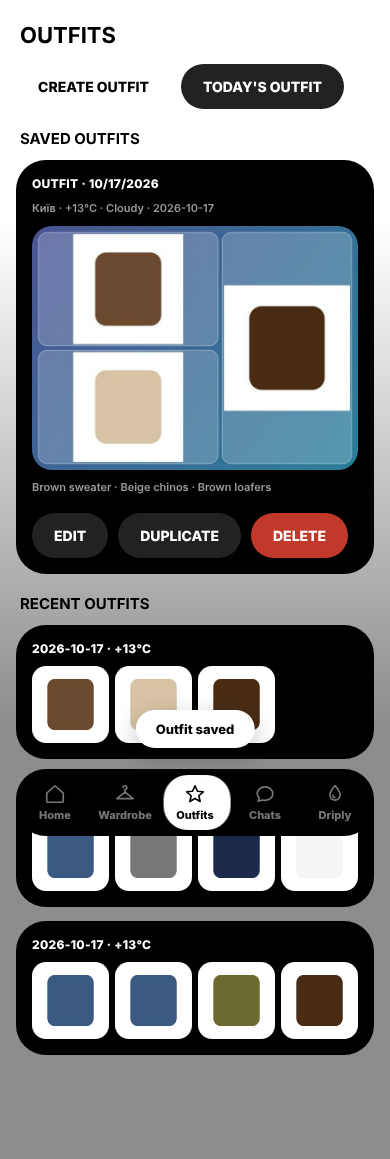
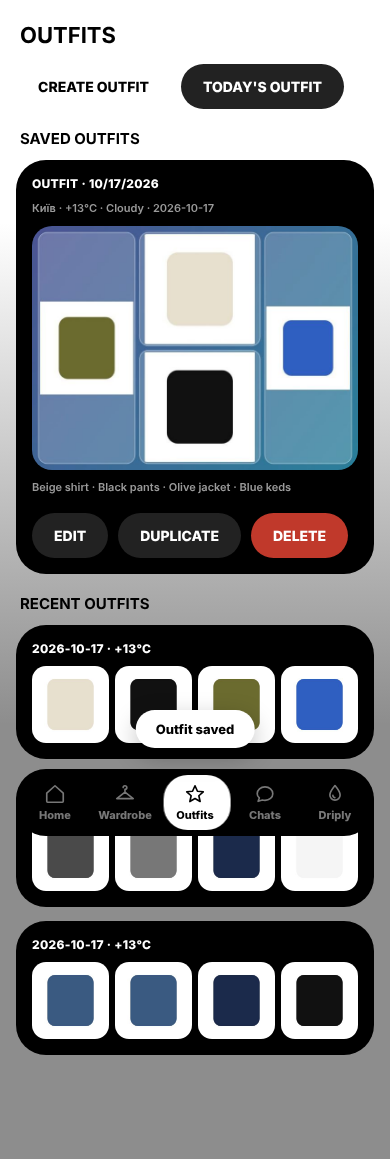
Widget: tap opens app and generates a new look
Claude-Session: https://claude.ai/code/session_01S2HiD2gXmzHQ91dDofdPVs

diff --git a/sw.js b/sw.js
@@ -1,4 +1,4 @@
-const V='wardrobe-v103',MEDIA='wd-media',DEMO=["demo/chinos-beige.webp", "demo/coat-trench.webp", "demo/coat-wool.webp", "demo/hoodie-black-zip.webp", "demo/hoodie-grey.webp", "demo/jacket-black-highneck.webp", "demo/jacket-bomber.webp", "demo/jacket-denim-black.webp", "demo/jacket-denim.webp", "demo/jacket-rain.webp", "demo/jacket-suede-beige.webp", "demo/jeans-black-flare.webp", "demo/jeans-black-wide.webp", "demo/jeans-black.webp", "demo/jeans-blue.webp", "demo/jeans-lightblue-flare.webp", "demo/loafers-brown.webp", "demo/longsleeve-striped.webp", "demo/polo-black.webp", "demo/polo-white.webp", "demo/puffer-black.webp", "demo/puffer-white.webp", "demo/shirt-blue.webp", "demo/shirt-white.webp", "demo/shorts-denim.webp", "demo/sneakers-black.webp", "demo/sneakers-gat-black.webp", "demo/sneakers-gat-white.webp", "demo/sneakers-white.webp", "demo/sweater-beige.webp", "demo/sweater-black-cable.webp", "demo/sweater-black-quarter.webp", "demo/sweater-grey-cable.webp", "demo/sweater-navy.webp", "demo/sweater-pink-cable.webp", "demo/sweater-white-cable.webp", "demo/sweatpants-grey.webp", "demo/tee-black.webp", "demo/tee-grey.webp", "demo/tee-white.webp", "demo/trousers-black.webp", "demo/jordan-puffer-black.webp", "demo/palace-puffer-black.webp", "demo/bape-tee-white.webp", "demo/balenciaga-fortnite-tee.webp", "demo/polo-usa-zip-hoodie-grey.webp", "demo/mastermind-hoodie-black.webp", "demo/mastermind-hoodie-pink.webp", "demo/supreme-waffle-sweater-cream.webp", "demo/supreme-waffle-sweater-black.webp", "demo/saint-laurent-mohair-sweater.webp", "demo/supreme-blur-sweater.webp", "demo/supreme-zip-hoodie-black.webp", "demo/supreme-zip-hoodie-grey.webp", "demo/supreme-zip-hoodie-washed-black.webp"],SHELL=['./','index.html','i18n.js','social.js','editor.js','chat.js','manifest.webmanifest','icons/icon-192.png','icons/icon-512.png','tab.mp3'];
+const V='wardrobe-v104',MEDIA='wd-media',DEMO=["demo/chinos-beige.webp", "demo/coat-trench.webp", "demo/coat-wool.webp", "demo/hoodie-black-zip.webp", "demo/hoodie-grey.webp", "demo/jacket-black-highneck.webp", "demo/jacket-bomber.webp", "demo/jacket-denim-black.webp", "demo/jacket-denim.webp", "demo/jacket-rain.webp", "demo/jacket-suede-beige.webp", "demo/jeans-black-flare.webp", "demo/jeans-black-wide.webp", "demo/jeans-black.webp", "demo/jeans-blue.webp", "demo/jeans-lightblue-flare.webp", "demo/loafers-brown.webp", "demo/longsleeve-striped.webp", "demo/polo-black.webp", "demo/polo-white.webp", "demo/puffer-black.webp", "demo/puffer-white.webp", "demo/shirt-blue.webp", "demo/shirt-white.webp", "demo/shorts-denim.webp", "demo/sneakers-black.webp", "demo/sneakers-gat-black.webp", "demo/sneakers-gat-white.webp", "demo/sneakers-white.webp", "demo/sweater-beige.webp", "demo/sweater-black-cable.webp", "demo/sweater-black-quarter.webp", "demo/sweater-grey-cable.webp", "demo/sweater-navy.webp", "demo/sweater-pink-cable.webp", "demo/sweater-white-cable.webp", "demo/sweatpants-grey.webp", "demo/tee-black.webp", "demo/tee-grey.webp", "demo/tee-white.webp", "demo/trousers-black.webp", "demo/jordan-puffer-black.webp", "demo/palace-puffer-black.webp", "demo/bape-tee-white.webp", "demo/balenciaga-fortnite-tee.webp", "demo/polo-usa-zip-hoodie-grey.webp", "demo/mastermind-hoodie-black.webp", "demo/mastermind-hoodie-pink.webp", "demo/supreme-waffle-sweater-cream.webp", "demo/supreme-waffle-sweater-black.webp", "demo/saint-laurent-mohair-sweater.webp", "demo/supreme-blur-sweater.webp", "demo/supreme-zip-hoodie-black.webp", "demo/supreme-zip-hoodie-grey.webp", "demo/supreme-zip-hoodie-washed-black.webp"],SHELL=['./','index.html','i18n.js','social.js','editor.js','chat.js','manifest.webmanifest','icons/icon-192.png','icons/icon-512.png','tab.mp3'];
 self.addEventListener('install',e=>{e.waitUntil(caches.open(V).then(c=>c.addAll(SHELL).then(()=>Promise.all(DEMO.map(u=>c.add(u).catch(()=>{}))))).then(()=>self.skipWaiting()))});
 self.addEventListener('activate',e=>{e.waitUntil(caches.keys().then(k=>Promise.all(k.filter(x=>x!==V&&x!==MEDIA).map(x=>caches.delete(x)))).then(()=>self.clients.claim()))});
 self.addEventListener('fetch',e=>{

diff --git a/index.html b/index.html
@@ -501,9 +501,13 @@ function widgetScript(url){return ['// Weather Wardrobe widget (Scriptable)','co
 '    const im = box.addImage(img); im.imageSize = new Size(sz - 8, sz - 8); im.resizable = true; im.applyFittingContentMode();',
 '  }',
 '}',
+'w.addSpacer(); const nl = w.addText("↻ Tap for a new look"); nl.font = Font.systemFont(10); nl.textColor = new Color("#ffffff", 0.7);',
+'w.url = URL_.replace(/\\/api\\/widget.*$/, "/?newlook=1");',
 'w.refreshAfterDate = new Date(Date.now() + 30 * 60 * 1000);',
 'if (config.runsInWidget) Script.setWidget(w); else await w.presentMedium();',
 'Script.complete();'].join('\n')}
+(function(){let q='';try{q=new URLSearchParams(location.search).get('newlook')}catch(e){}if(!q)return;let n=0;
+const t=setInterval(()=>{if(++n>60){clearInterval(t);return}if(!S.w||!pool().length)return;clearInterval(t);try{history.replaceState(null,'',location.pathname);gen()}catch(e){}},500)})();
 async function widgetSetup(){
  if(!S.user){toast('Sign in with Google first');return}
  let tok;try{const r=await API('/api/widget',{method:'POST',body:JSON.stringify({op:'token'})});if(!r.ok)throw 0;tok=(await r.json()).token}catch(e){toast('Could not reach the server');return}
